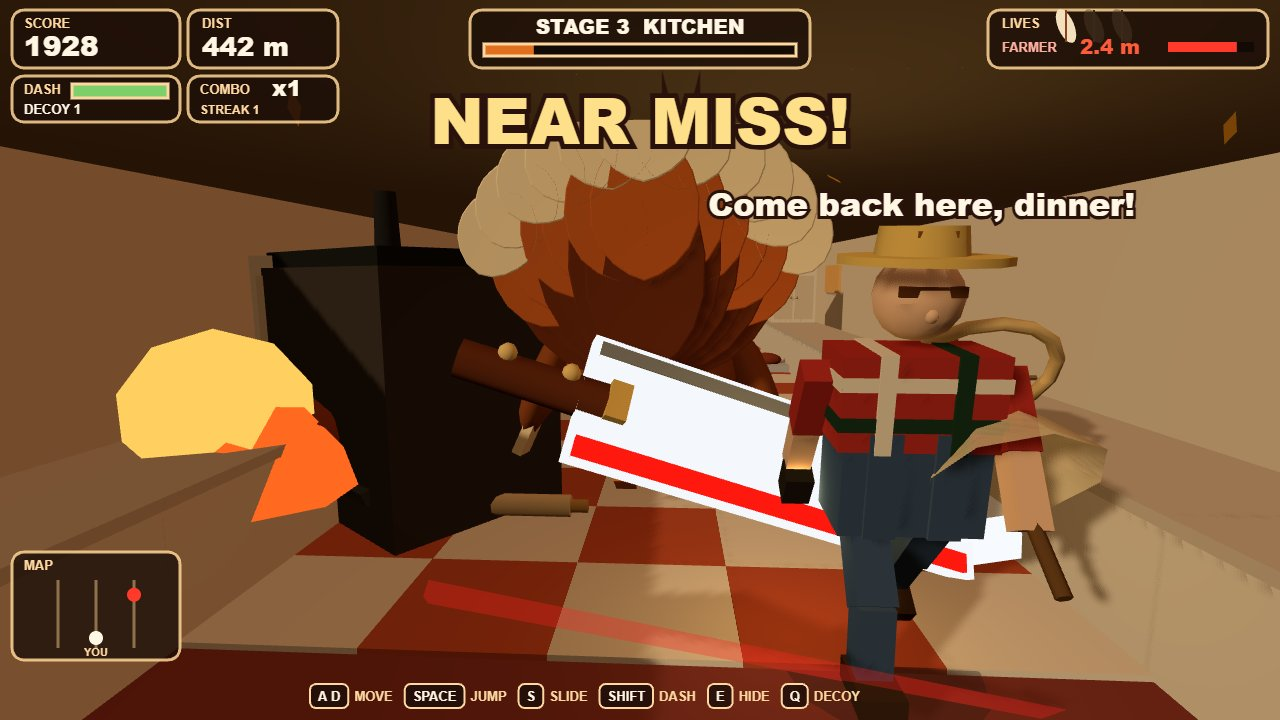
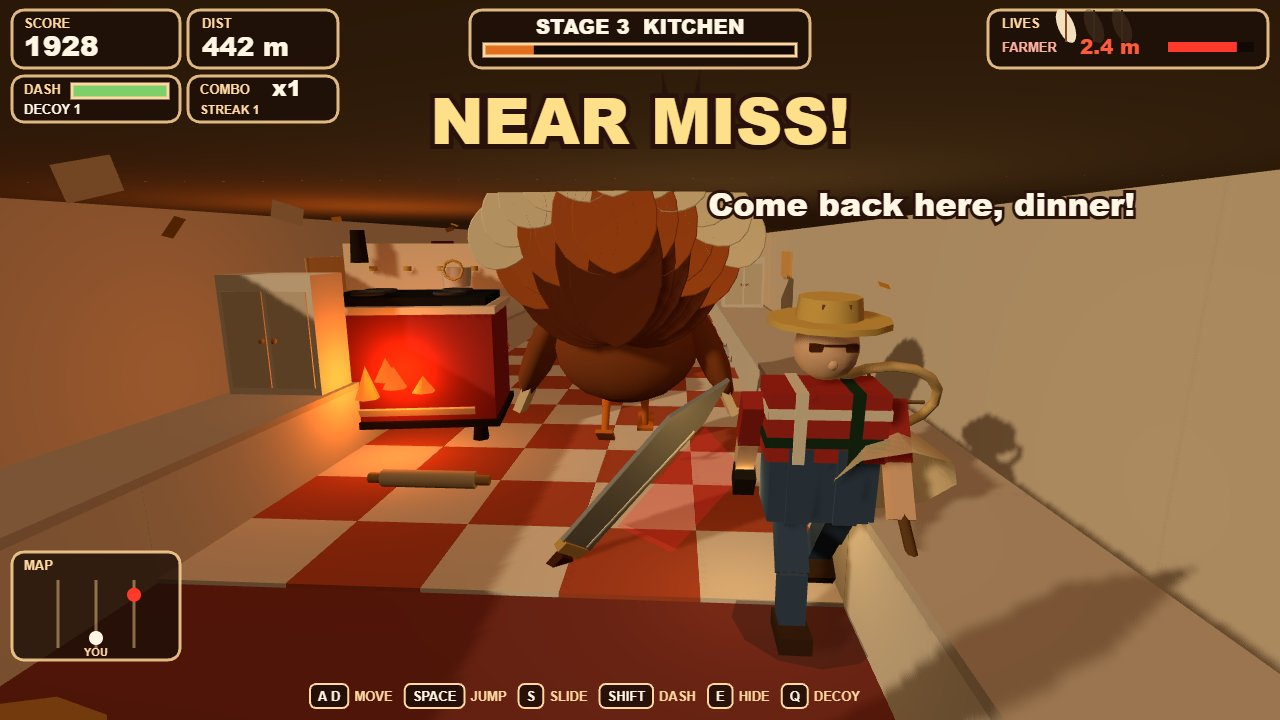
V2B: kitchen oven+knife+camera

diff --git a/game/src/hazards.js b/game/src/hazards.js
@@ -17,23 +17,70 @@ function mesh(geo, color, x, y, z, parent) {
 
 export function makeOven() {
   const g = new THREE.Group();
-  mesh(new THREE.BoxGeometry(1.7, 1.5, 1.15), 0x3a342f, 0, 0.75, 0, g);
-  mesh(new THREE.BoxGeometry(1.55, 0.1, 1.08), 0xe7d7c0, 0, 1.28, 0, g);
-  mesh(new THREE.BoxGeometry(1.5, 0.16, 1.05), 0x1c1c1c, 0, 1.52, 0, g);
-  mesh(new THREE.CylinderGeometry(0.08, 0.1, 0.42, 6), 0x222222, -0.45, 1.82, -0.15, g);
-  mesh(new THREE.BoxGeometry(1.15, 0.9, 0.08), 0x1a1a1a, 0, 0.72, 0.5, g);
+  const enamel = 0x9c2f2a;
+  const cream = 0xf4e6cf;
+  const iron = 0x241c18;
+  const brass = 0xd4b15a;
+  for (const [x, z] of [[-0.68, -0.42], [0.68, -0.42], [-0.68, 0.42], [0.68, 0.42]]) {
+    mesh(new THREE.CylinderGeometry(0.07, 0.09, 0.16, 6), iron, x, 0.08, z, g);
+  }
+  mesh(new THREE.BoxGeometry(1.72, 1.16, 1.12), enamel, 0, 0.78, 0, g);
+  mesh(new THREE.BoxGeometry(1.8, 0.07, 1.2), cream, 0, 1.36, 0, g);
+  mesh(new THREE.BoxGeometry(1.8, 0.07, 1.2), iron, 0, 0.24, 0, g);
+  mesh(new THREE.BoxGeometry(1.6, 0.08, 1.02), 0x1a1a1a, 0, 1.44, 0, g);
+  const grateGeo = new THREE.TorusGeometry(0.15, 0.018, 6, 12);
+  for (const [x, z] of [[-0.4, -0.2], [0.4, -0.2], [-0.4, 0.2], [0.4, 0.2]]) {
+    const ring = mesh(grateGeo, 0x3c3c3c, x, 1.5, z, g);
+    ring.rotation.x = Math.PI / 2;
+  }
+  const pot = mesh(new THREE.CylinderGeometry(0.16, 0.14, 0.2, 8), 0xd8d4ce, 0.4, 1.64, -0.18, g);
+  pot.scale.set(1, 1, 1);
+  mesh(new THREE.TorusGeometry(0.1, 0.016, 5, 8), brass, 0.4, 1.72, -0.02, g);
+  mesh(new THREE.BoxGeometry(1.7, 0.5, 0.08), cream, 0, 1.74, -0.5, g);
+  for (let i = 0; i < 4; i += 1) {
+    mesh(new THREE.CylinderGeometry(0.045, 0.045, 0.05, 8), brass, -0.54 + i * 0.36, 1.72, -0.44, g);
+  }
+  mesh(new THREE.CylinderGeometry(0.07, 0.09, 0.34, 6), iron, -0.62, 1.96, -0.28, g);
+  mesh(new THREE.BoxGeometry(1.18, 0.84, 0.62), 0x140e0c, 0, 0.78, 0.1, g);
+  mesh(new THREE.BoxGeometry(1.02, 0.025, 0.5), 0x8d949c, 0, 0.58, 0.16, g);
+  mesh(new THREE.BoxGeometry(1.02, 0.025, 0.48), 0x8d949c, 0, 0.96, 0.14, g);
+  const roast = mesh(new THREE.SphereGeometry(0.24, 8, 6), 0x8a3d18, 0, 0.74, 0.2, g);
+  roast.scale.set(1.4, 0.65, 1);
+  const glowMat = new THREE.MeshLambertMaterial({ color: 0x4a1c0c, emissive: new THREE.Color(0xff7a20), emissiveIntensity: 0.35 });
+  const glow = new THREE.Mesh(new THREE.BoxGeometry(1.02, 0.7, 0.04), glowMat);
+  glow.position.set(0, 0.78, 0.44);
+  g.add(glow);
   const door = new THREE.Group();
-  door.position.set(0, 0.28, 0.58);
+  door.position.set(0, 0.36, 0.58);
   g.add(door);
-  const doorMesh = mesh(new THREE.BoxGeometry(1.22, 0.98, 0.08), 0x3a3a3a, 0, 0.46, 0, door);
-  mesh(new THREE.BoxGeometry(0.72, 0.22, 0.02), 0xffe08a, 0, 0.7, 0.05, door);
-  mesh(new THREE.CylinderGeometry(0.045, 0.045, 0.18, 6), 0xc0c0c0, 0.42, 0.22, 0.07, door);
-  const roast = mesh(new THREE.SphereGeometry(0.28, 8, 6), 0x8a3d18, 0, 0.55, 0.72, g);
-  roast.scale.set(1.3, 0.75, 1);
-  const fire = mesh(new THREE.ConeGeometry(0.55, 0.9, 7), 0xff6a20, 0.15, 0.7, 0.95, g);
-  fire.material = new THREE.MeshBasicMaterial({ color: 0xff6a20 });
-  const glow = mesh(new THREE.SphereGeometry(0.46, 6, 5), 0xffd060, 0, 0.72, 1.05, g);
-  glow.material = new THREE.MeshBasicMaterial({ color: 0xffd060 });
+  const doorMesh = mesh(new THREE.BoxGeometry(1.32, 0.92, 0.07), cream, 0, 0.46, 0, door);
+  mesh(new THREE.BoxGeometry(1.08, 0.7, 0.03), iron, 0, 0.5, 0.04, door);
+  const glassMat = new THREE.MeshLambertMaterial({
+    color: 0x2a140c,
+    emissive: new THREE.Color(0xff7a20),
+    emissiveIntensity: 0.2,
+    transparent: true,
+    opacity: 0.78,
+  });
+  const glass = new THREE.Mesh(new THREE.BoxGeometry(0.9, 0.52, 0.02), glassMat);
+  glass.position.set(0, 0.54, 0.06);
+  door.add(glass);
+  mesh(new THREE.BoxGeometry(0.7, 0.055, 0.055), brass, 0, 0.14, 0.07, door);
+  const flames = new THREE.Group();
+  flames.position.set(0, 0.72, 0.78);
+  g.add(flames);
+  const flameMat = new THREE.MeshLambertMaterial({ color: 0xff5a18, emissive: new THREE.Color(0xff6a20), emissiveIntensity: 1 });
+  const flameGeo = new THREE.ConeGeometry(0.11, 0.36, 6);
+  const flameList = [];
+  for (const [x, y, z] of [[-0.28, 0, 0], [0, 0.06, 0.08], [0.24, -0.02, 0.02], [-0.06, 0.14, 0.1]]) {
+    const flame = new THREE.Mesh(flameGeo, flameMat);
+    flame.position.set(x, y, z);
+    flames.add(flame);
+    flameList.push(flame);
+  }
+  const light = new THREE.PointLight(0xff7a20, 0, 7, 2);
+  light.position.set(0, 0.78, 0.9);
+  g.add(light);
   g.userData.kind = 'oven';
   g.userData.hazard = true;
   g.userData.laneSpan = 1;
@@ -43,11 +90,17 @@ export function makeOven() {
     const open = cycle > 2.15 && cycle < 3.05;
     const warn = cycle > 1.7 && cycle <= 2.15;
     door.rotation.x = open ? -1.25 : warn ? -0.28 : 0;
-    fire.visible = open;
-    glow.visible = open || warn;
-    roast.visible = open || warn;
-    fire.scale.y = open ? 0.75 + Math.sin(t * 18) * 0.22 : 0.2;
-    doorMesh.material.color.setHex(warn ? 0xff5530 : 0x3a3a3a);
+    flames.visible = open;
+    roast.visible = true;
+    glowMat.emissiveIntensity = open ? 1.2 : warn ? 0.7 : 0.18;
+    glassMat.emissiveIntensity = open ? 0.95 : warn ? 0.5 : 0.08;
+    light.intensity = open ? 5 : warn ? 1.4 : 0.12;
+    if (open) {
+      flameList.forEach((flame, i) => {
+        flame.scale.y = 0.75 + Math.sin(t * 18 + i) * 0.32;
+      });
+    }
+    doorMesh.material.color.setHex(warn ? 0xff8866 : cream);
     g.userData.hot = open;
     g.userData.warn = warn;
   };
@@ -55,25 +108,46 @@ export function makeOven() {
   return g;
 }
 
+function carvingBladeGeometry() {
+  const shape = new THREE.Shape();
+  shape.moveTo(0, 0);
+  shape.lineTo(1.7, 0.05);
+  shape.lineTo(2.15, 0.2);
+  shape.lineTo(1.55, 0.46);
+  shape.lineTo(0, 0.4);
+  shape.lineTo(0, 0);
+  const geo = new THREE.ExtrudeGeometry(shape, {
+    depth: 0.04,
+    bevelEnabled: true,
+    bevelThickness: 0.006,
+    bevelSize: 0.006,
+    bevelSegments: 1,
+    curveSegments: 1,
+  });
+  geo.translate(0, 0, -0.02);
+  return geo;
+}
+
+const CARVING_BLADE = carvingBladeGeometry();
+const STEEL = new THREE.MeshStandardMaterial({ color: 0xf4f7fb, metalness: 0.72, roughness: 0.28 });
+
 export function makeKnife() {
   const g = new THREE.Group();
   const blade = new THREE.Group();
   g.add(blade);
-  const steel = mesh(new THREE.BoxGeometry(2.15, 0.62, 0.1), 0xf4f7fb, 0.42, 0.95, 0, blade);
-  steel.material = new THREE.MeshBasicMaterial({ color: 0xf4f7fb });
-  mesh(new THREE.BoxGeometry(1.95, 0.07, 0.11), 0x8b949e, 0.36, 1.2, 0, blade);
-  const edge = mesh(new THREE.BoxGeometry(2.05, 0.09, 0.12), 0xff241c, 0.4, 0.7, 0.02, blade);
-  edge.material = new THREE.MeshBasicMaterial({ color: 0xff241c });
-  const tip = mesh(new THREE.ConeGeometry(0.28, 0.78, 4), 0xf7fbff, 1.78, 0.95, 0, blade);
-  tip.rotation.z = -Math.PI / 2;
-  tip.scale.set(1, 1, 0.42);
-  tip.material = new THREE.MeshBasicMaterial({ color: 0xf7fbff });
-  const handle = mesh(new THREE.CylinderGeometry(0.09, 0.1, 0.72, 6), 0x6a341c, -0.86, 0.95, 0, blade);
-  handle.rotation.z = Math.PI / 2;
-  mesh(new THREE.BoxGeometry(0.1, 0.18, 0.22), 0xe8c56a, -0.48, 0.95, 0, blade);
-  mesh(new THREE.SphereGeometry(0.045, 6, 5), 0xf2d48a, -1.02, 1.02, 0.07, blade);
-  mesh(new THREE.SphereGeometry(0.045, 6, 5), 0xf2d48a, -0.72, 1.02, 0.07, blade);
-  const warn = mesh(new THREE.BoxGeometry(2.5, 0.045, 1.35), 0xff2a2a, 0.25, 0.05, 0, g);
+  const steel = new THREE.Mesh(CARVING_BLADE, STEEL);
+  steel.position.set(-0.35, 0.58, 0);
+  steel.castShadow = true;
+  steel.receiveShadow = true;
+  blade.add(steel);
+  mesh(new THREE.BoxGeometry(1.55, 0.02, 0.012), 0xffffff, 0.45, 0.66, 0.028, blade);
+  mesh(new THREE.BoxGeometry(0.12, 0.32, 0.1), 0xc9a15a, -0.4, 0.8, 0, blade);
+  mesh(new THREE.BoxGeometry(0.58, 0.16, 0.1), 0x4a2414, -0.78, 0.78, 0, blade);
+  for (const x of [-0.62, -0.78, -0.94]) {
+    const rivet = mesh(new THREE.CylinderGeometry(0.028, 0.028, 0.12, 6), 0xe6c56a, x, 0.78, 0, blade);
+    rivet.rotation.x = Math.PI / 2;
+  }
+  const warn = mesh(new THREE.BoxGeometry(1.7, 0.03, 0.7), 0xff2a2a, 0.4, 0.03, 0, g);
   warn.material = new THREE.MeshBasicMaterial({ color: 0xff2020, transparent: true, opacity: 0.0 });
   g.userData.kind = 'knife';
   g.userData.hazard = true;
@@ -82,12 +156,10 @@ export function makeKnife() {
     const cycle = (t + (g.userData.phase || 0)) % 2.6;
     const telegraph = cycle > 1.35 && cycle <= 1.9;
     const slam = cycle > 1.9 && cycle < 2.35;
-    const hot = telegraph || slam;
-    const pulse = hot ? 0.55 + Math.sin(t * 30) * 0.2 : 0;
-    warn.material.opacity = pulse * 0.9;
+    const pulse = (telegraph || slam) ? 0.55 + Math.sin(t * 30) * 0.2 : 0;
+    warn.material.opacity = telegraph ? pulse * 0.9 : slam ? 0.25 : 0;
     blade.position.y = slam ? 0.02 : 1.55;
     blade.rotation.z = slam ? -0.04 : 0.62;
-    edge.material.color.setHex(slam ? 0xff180e : 0xff5544);
     g.userData.hot = slam;
     g.userData.warn = telegraph;
   };
@@ -135,16 +207,16 @@ export function primeShotHazards(root, time, bird) {
       if (!found.knife && kind === 'knife') found.knife = obj;
     });
   }
-  drop(found.oven, -2.55, 0.55);
-  drop(found.knife, 0.15, -2.05);
+  drop(found.oven, -2.35, 2.15);
+  drop(found.knife, 1.25, -1.15);
   if (found.oven) {
-    found.oven.scale.setScalar(1.55);
-    found.oven.rotation.y = -0.65;
+    found.oven.scale.setScalar(1.42);
+    found.oven.rotation.y = 0.15;
   }
   if (found.knife) {
-    found.knife.scale.setScalar(1.45);
-    found.knife.rotation.set(-0.55, 0.35, -0.15);
-    found.knife.position.y = 0;
+    found.knife.scale.setScalar(0.92);
+    found.knife.rotation.set(0.45, 0.55, 0.72);
+    found.knife.position.y = 0.04;
   }
   if (found.oven) found.oven.userData.phase = phaseFor(time, 3.2, 2.55);
   if (found.knife) found.knife.userData.phase = phaseFor(time, 2.6, 2.08);

diff --git a/game/src/main.js b/game/src/main.js
@@ -372,17 +372,17 @@ if (query.name) {
     farmer.state = 'CHASE';
     state.farmerState = 'CHASE';
     state.farmerDist = 2.4;
-    farmer.z = bird.z + 2.15;
-    farmer.x = bird.x + 1.35;
-    state.hat = 'none';
-    turkey.userData.setHat('none');
     bird.sliding = 0;
     bird.grounded = false;
-    bird.y = 0.38;
-    bird.x = -0.05;
+    bird.y = 0.72;
+    bird.x = 0.95;
     bird.pose = 'jump';
-    particles.puffFire(bird.x - 1.7, 1.05, bird.z - 3.4);
-    particles.puffFire(bird.x - 2.2, 0.65, bird.z - 3.7);
+    farmer.z = bird.z + 2.35;
+    farmer.x = bird.x + 1.55;
+    state.hat = 'none';
+    turkey.userData.setHat('none');
+    particles.puffFire(bird.x - 2.3, 1.15, bird.z - 3.1);
+    particles.puffFire(bird.x - 2.7, 0.7, bird.z - 3.5);
     particles.tick(0.016);
   }
   if (query.name === 'end') {

diff --git a/game/src/camera-rig.js b/game/src/camera-rig.js
@@ -19,8 +19,9 @@ export function createCameraRig(camera) {
         desired.set(bird.x + 2.55, 3.15, bird.z + 8.15);
         look.set(bird.x - 0.15, 0.95, bird.z - 6.6);
       } else if (state.shot === 'kitchen') {
-        desired.set(bird.x + 0.2, 2.25, bird.z + 5.35);
-        look.set(bird.x - 0.35, 0.82, bird.z - 4.8);
+        // Stay under the kitchen ceiling (y ≈ 3.3) and inside the lane walls.
+        desired.set(bird.x + 0.55, 2.82, bird.z + 6.5);
+        look.set(bird.x - 0.15, 0.55, bird.z - 5.2);
       } else if (state.mode === 'title') {
         // Front 3/4: camera is ahead of Tom (more -Z) and off to one side.
         desired.set(bird.x - 2.55, 1.62, bird.z - 3.7);
